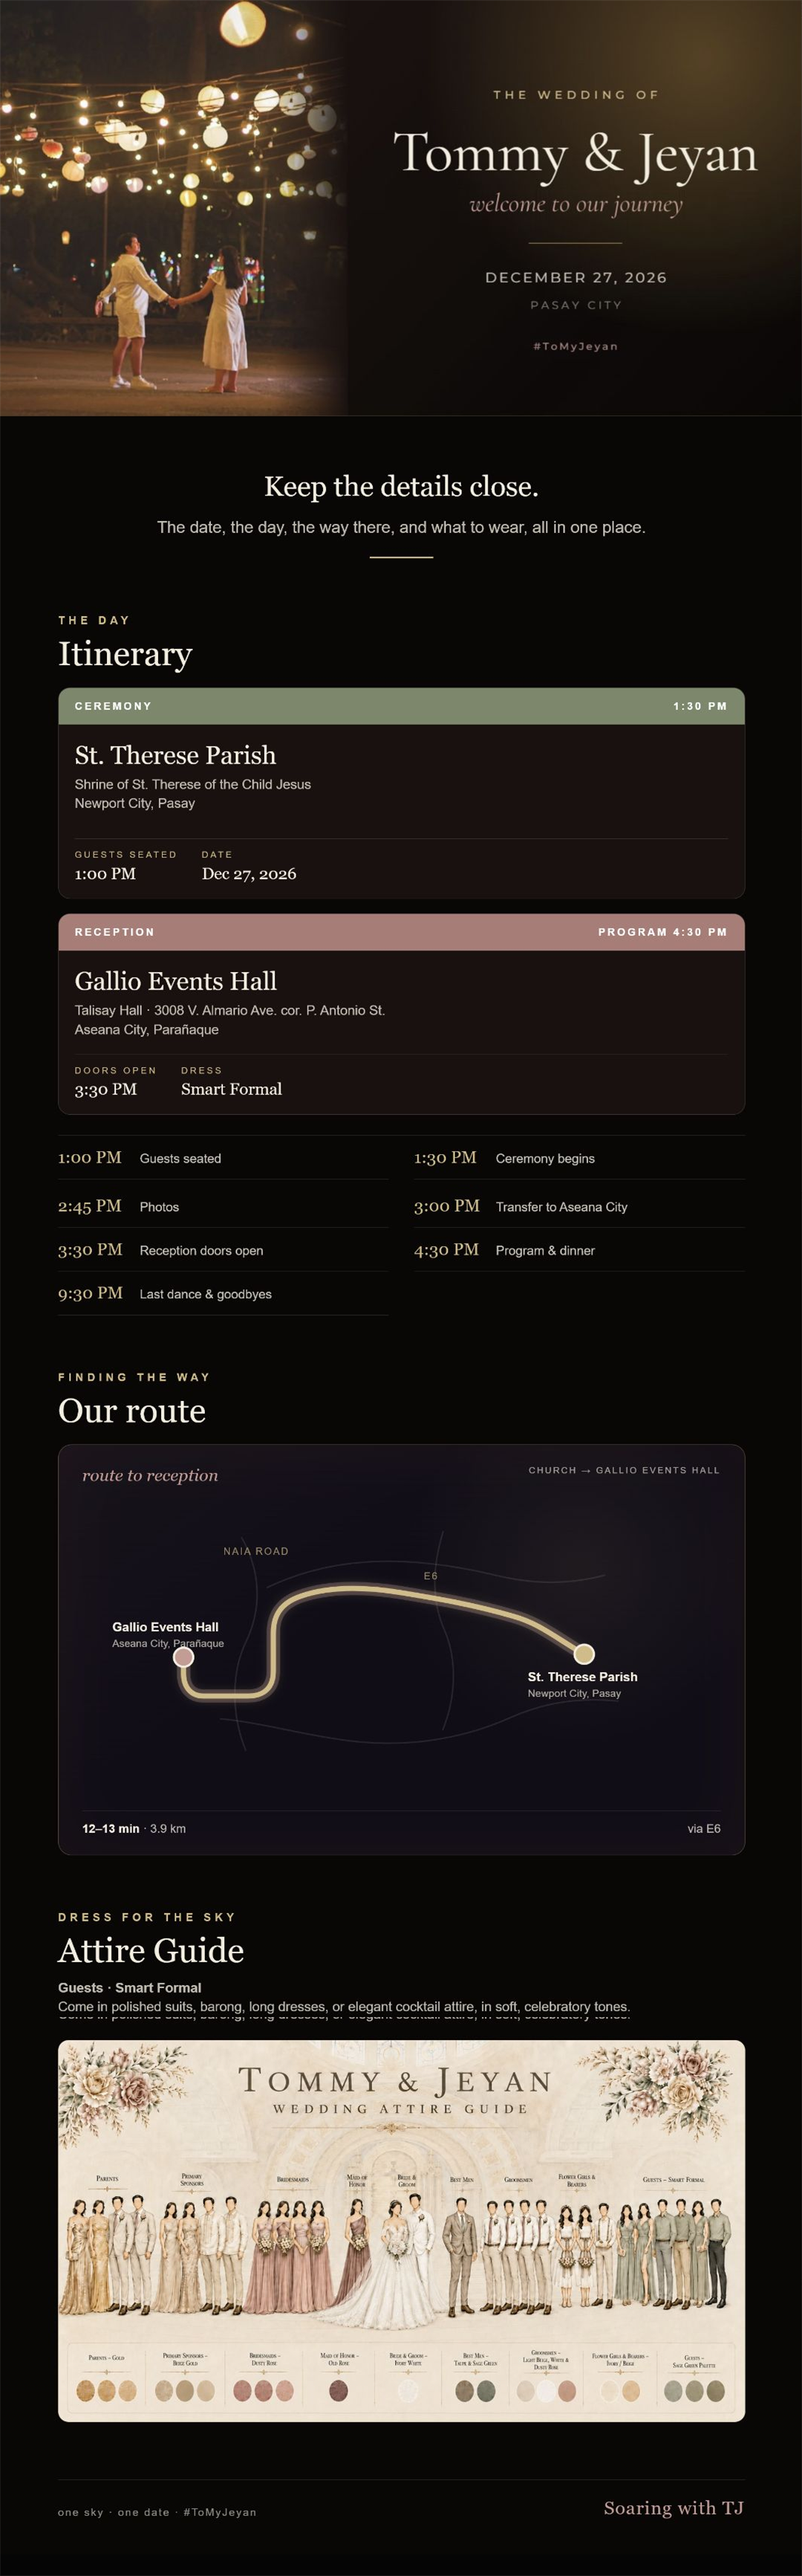
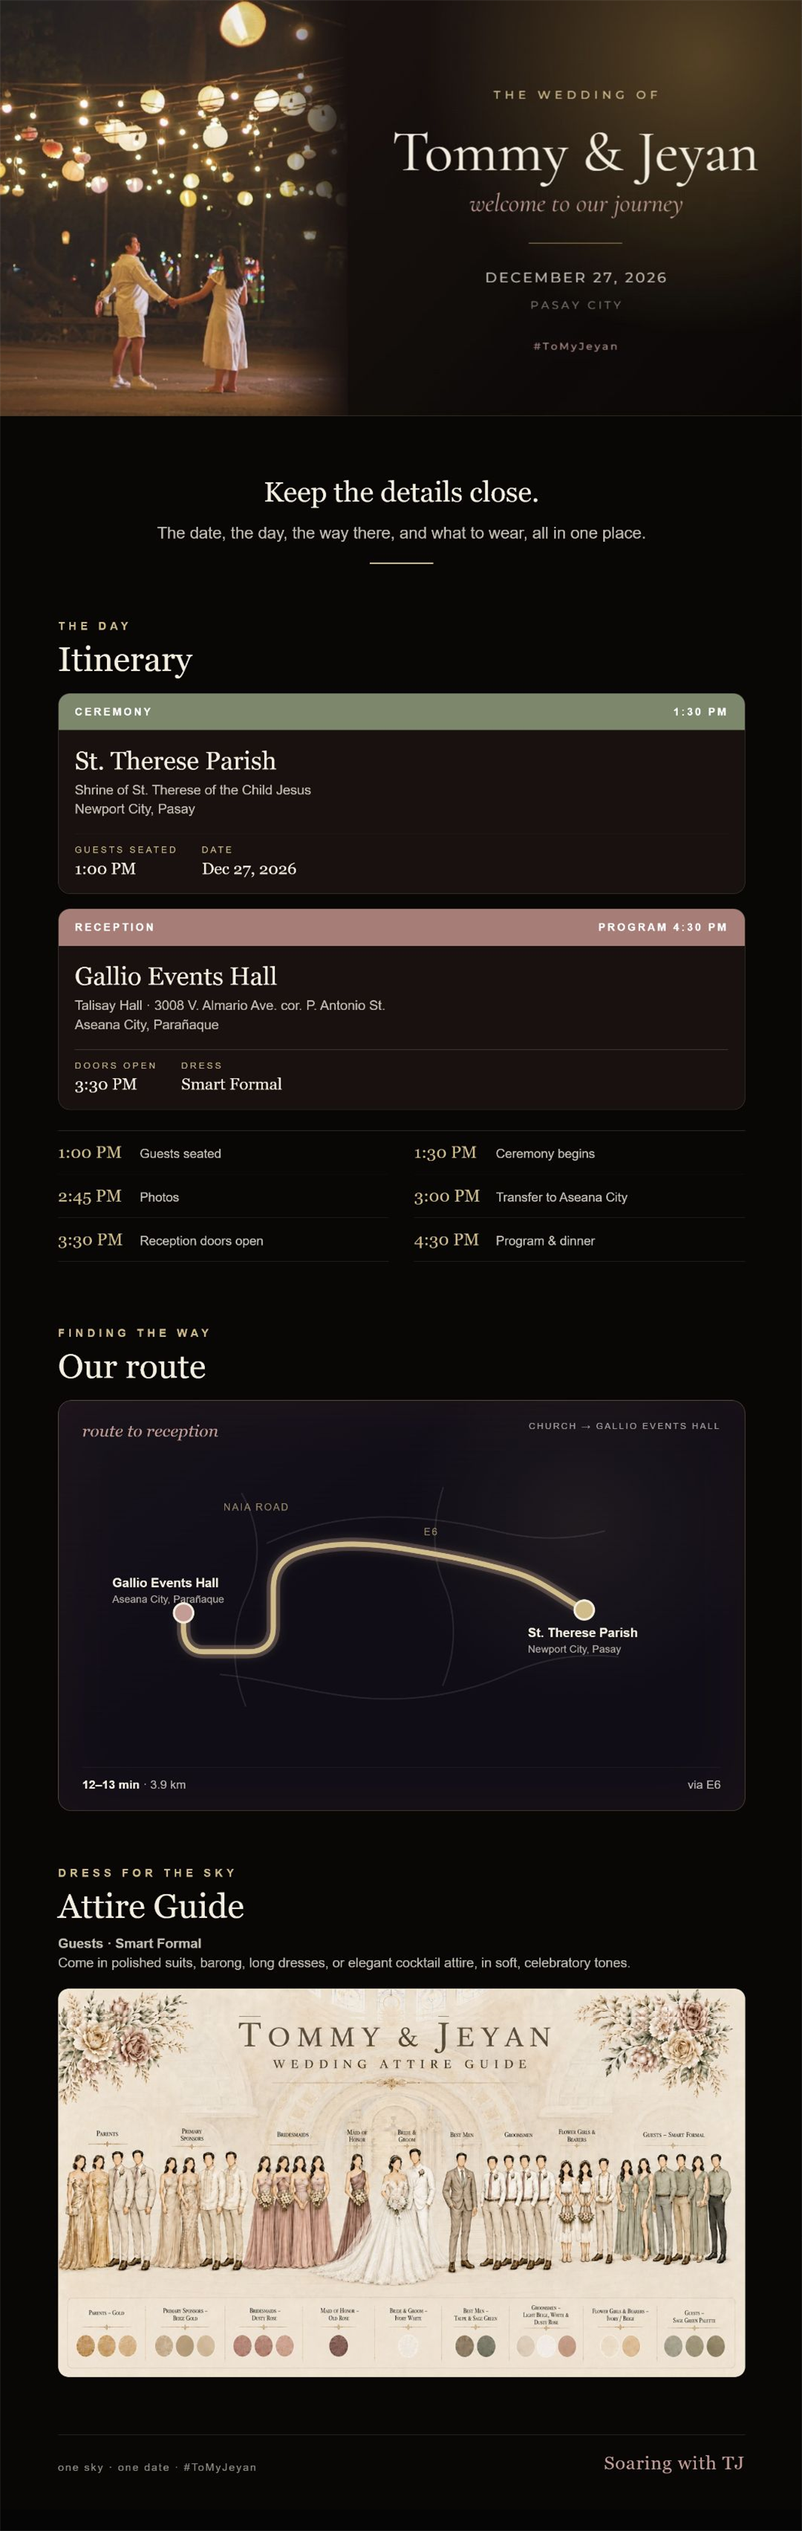
Fix live invitation itinerary and card export

diff --git a/docs/index.html b/docs/index.html
@@ -935,7 +935,7 @@ dialog.panel.film{ width:min(94vw, 880px); }
   margin:0 auto 14px; max-width:270px; border:1px solid rgba(46,43,39,.18);
   background:var(--night-deep); overflow:hidden; box-shadow:0 8px 26px -12px rgba(0,0,0,.45);
 }
-.rsvp-card-preview img{ display:block; width:100%; height:auto; max-height:520px; aspect-ratio:1080/3466; object-fit:contain; }
+.rsvp-card-preview img{ display:block; width:100%; height:auto; max-height:520px; aspect-ratio:1080/3406; object-fit:contain; }
 .rsvp-card-download .btn{ width:100%; }
 @media (max-width:440px){
   .rsvp-card-download{ padding:15px; }
@@ -2353,7 +2353,7 @@ html.android #next-lans .lantern.far{ animation:none !important; }
             <strong>Keep the details close</strong>
             <small>Save the phone-sized invitation card for the day.</small>
           </div>
-          <a class="btn dark rsvp-card-link" href="images/invitation-card.png?v=3" download="tommy-jeyan-invitation.png">Download invitation image</a>
+          <a class="btn dark rsvp-card-link" href="images/invitation-card.png?v=5" download="tommy-jeyan-invitation.png">Download invitation image</a>
         </div>
         <div class="rsvp-known-btns">
           <button class="btn dark" type="button" id="known-edit">Change my response</button>
@@ -2438,9 +2438,9 @@ html.android #next-lans .lantern.far{ animation:none !important; }
         <h4>Save the invitation</h4>
         <p>Download the full phone-sized guide with the share-preview cover, itinerary, map, and attire guide.</p>
         <figure class="rsvp-card-preview">
-          <img src="images/invitation-card.png?v=3" width="1080" height="3466" loading="lazy" alt="Tommy and Jeyan wedding guide with the share-preview cover, itinerary, map, and Smart Formal attire guide" />
+          <img src="images/invitation-card.png?v=5" width="1080" height="3406" loading="lazy" alt="Tommy and Jeyan wedding guide with the share-preview cover, itinerary, map, and Smart Formal attire guide" />
         </figure>
-        <a class="btn dark" href="images/invitation-card.png?v=3" download="tommy-jeyan-invitation.png">Download invitation image</a>
+        <a class="btn dark" href="images/invitation-card.png?v=5" download="tommy-jeyan-invitation.png">Download invitation image</a>
       </div>
       <div class="rsvp-known-btns">
         <button class="btn quiet" type="button" id="done-edit">Change my response</button>
@@ -2547,7 +2547,6 @@ html.android #next-lans .lantern.far{ animation:none !important; }
       <div class="stop"><b>3:00 PM</b><span>Transfer to Aseana City</span></div>
       <div class="stop"><b>3:30 PM</b><span>Reception doors open</span></div>
       <div class="stop"><b>4:30 PM</b><span>Program &amp; dinner</span></div>
-      <div class="stop"><b>9:30 PM</b><span>Last dance &amp; goodbyes</span></div>
     </div>
   </div>
 </dialog>
